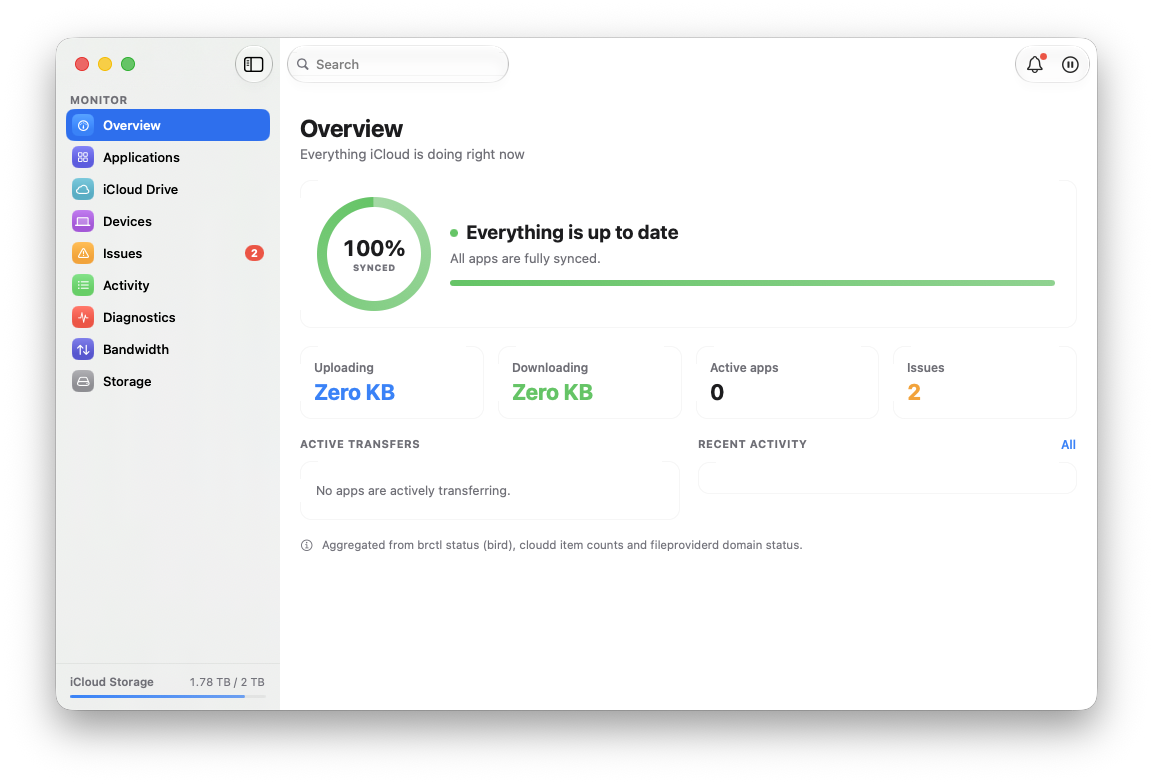
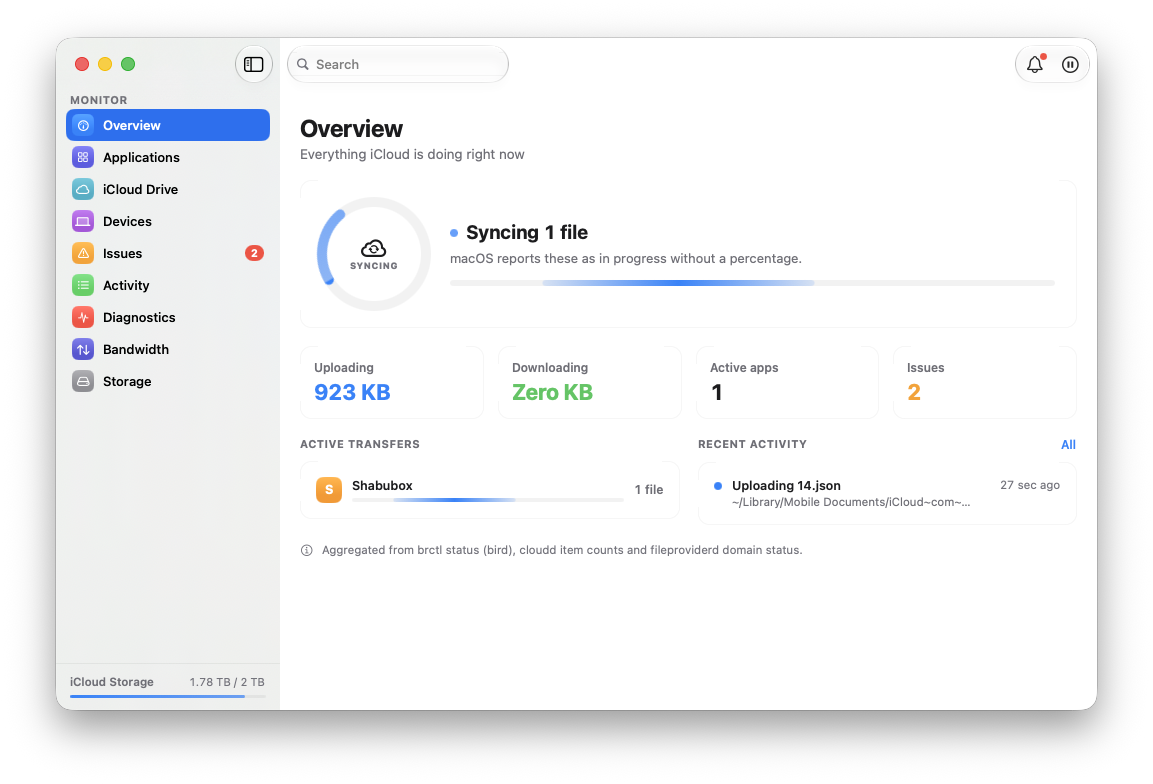
README: Overview screenshot showing a live sync

diff --git a/README.md b/README.md
@@ -16,7 +16,7 @@
 Birdwatch is built on one rule: **it never invents a number.** Where macOS exposes real data, you get real data. Where it doesn't, the app says so and points you to the place that does.
 
 <p align="center">
-  <img src="docs/images/overview.png" alt="Birdwatch's Overview screen: a 100% synced ring, upload/download/active-app/issue tiles, and the sidebar of monitor views" width="900">
+  <img src="docs/images/overview.png" alt="Birdwatch's Overview screen: a file syncing with an honest indeterminate bar, upload/download/active-app/issue tiles, an active transfer and recent activity, and the sidebar of monitor views" width="900">
 </p>
 
 ## What it shows
